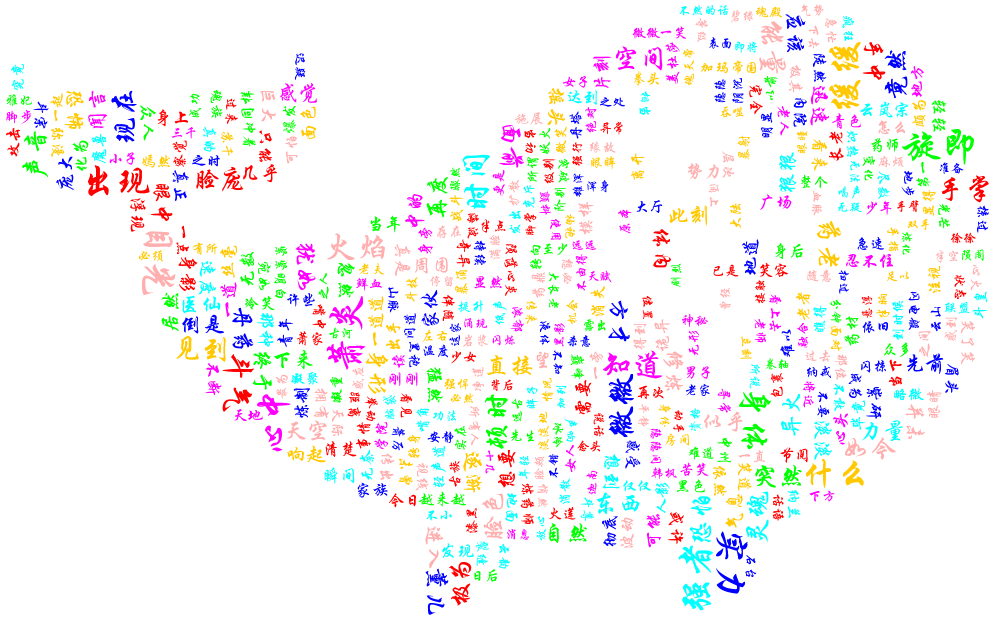
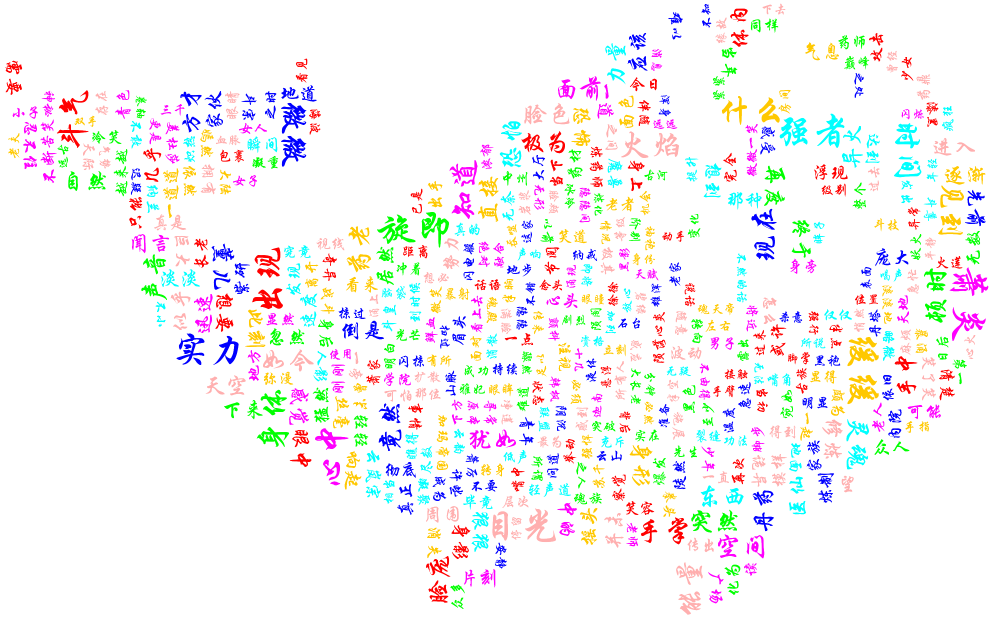
change background of wordcloud.

Changed region(s): [[0.0, 0.0, 0.992, 0.9952]]

diff --git a/src/test/java/Test.java b/src/test/java/Test.java
@@ -43,7 +43,7 @@ public class Test {
             wordFrequencies.add(new WordFrequency("安全", (int) (Math.random() * 1000)));
         }
 
-        Dimension dimension = new Dimension(1000, 630);
+        Dimension dimension = new Dimension(1598, 1064);
         WordCloud wordCloud = new WordCloud(dimension, CollisionMode.PIXEL_PERFECT);
         wordCloud.setPadding(2);
         wordCloud.setColorPalette(new ColorPalette(Color.RED, Color.MAGENTA, Color.PINK, Color.GREEN, Color.ORANGE, Color.BLUE, Color.CYAN));
@@ -54,8 +54,8 @@ public class Test {
         ge.registerFont(font);
         wordCloud.setKumoFont(new KumoFont(font));
         wordCloud.setBackgroundColor(new Color(255, 255, 255));
-        wordCloud.setBackground(new PixelBoundaryBackground(Test.class.getResourceAsStream("/whale.png")));
+        wordCloud.setBackground(new PixelBoundaryBackground(Test.class.getResourceAsStream("/lotus.png")));
         wordCloud.build(wordFrequencies);
-        wordCloud.writeToFile("src/test/test.png");
+        wordCloud.writeToFile("src/test/test_lotus.png");
     }
 }

diff --git a/src/main/java/WordCount.java b/src/main/java/WordCount.java
@@ -114,7 +114,7 @@ public class WordCount {
             }
         }
 
-        Dimension dimension = new Dimension(1000, 630);
+        Dimension dimension = new Dimension(1598, 1064);
         WordCloud wordCloud = new WordCloud(dimension, CollisionMode.PIXEL_PERFECT);
         wordCloud.setPadding(2);
         wordCloud.setColorPalette(new ColorPalette(Color.RED, Color.MAGENTA, Color.PINK, Color.GREEN, Color.ORANGE, Color.BLUE, Color.CYAN));
@@ -124,8 +124,8 @@ public class WordCount {
         ge.registerFont(font);
         wordCloud.setKumoFont(new KumoFont(font));
         wordCloud.setBackgroundColor(new Color(255, 255, 255));
-        wordCloud.setBackground(new PixelBoundaryBackground(WordCount.class.getResourceAsStream("/whale.png")));
+        wordCloud.setBackground(new PixelBoundaryBackground(WordCount.class.getResourceAsStream("/lotus.png")));
         wordCloud.build(wordFrequencies);
-        wordCloud.writeToFile(args[1] + "/word_freq.png");
+        wordCloud.writeToFile(args[1] + "/word_freq_500_lotus.png");
     }
 }
